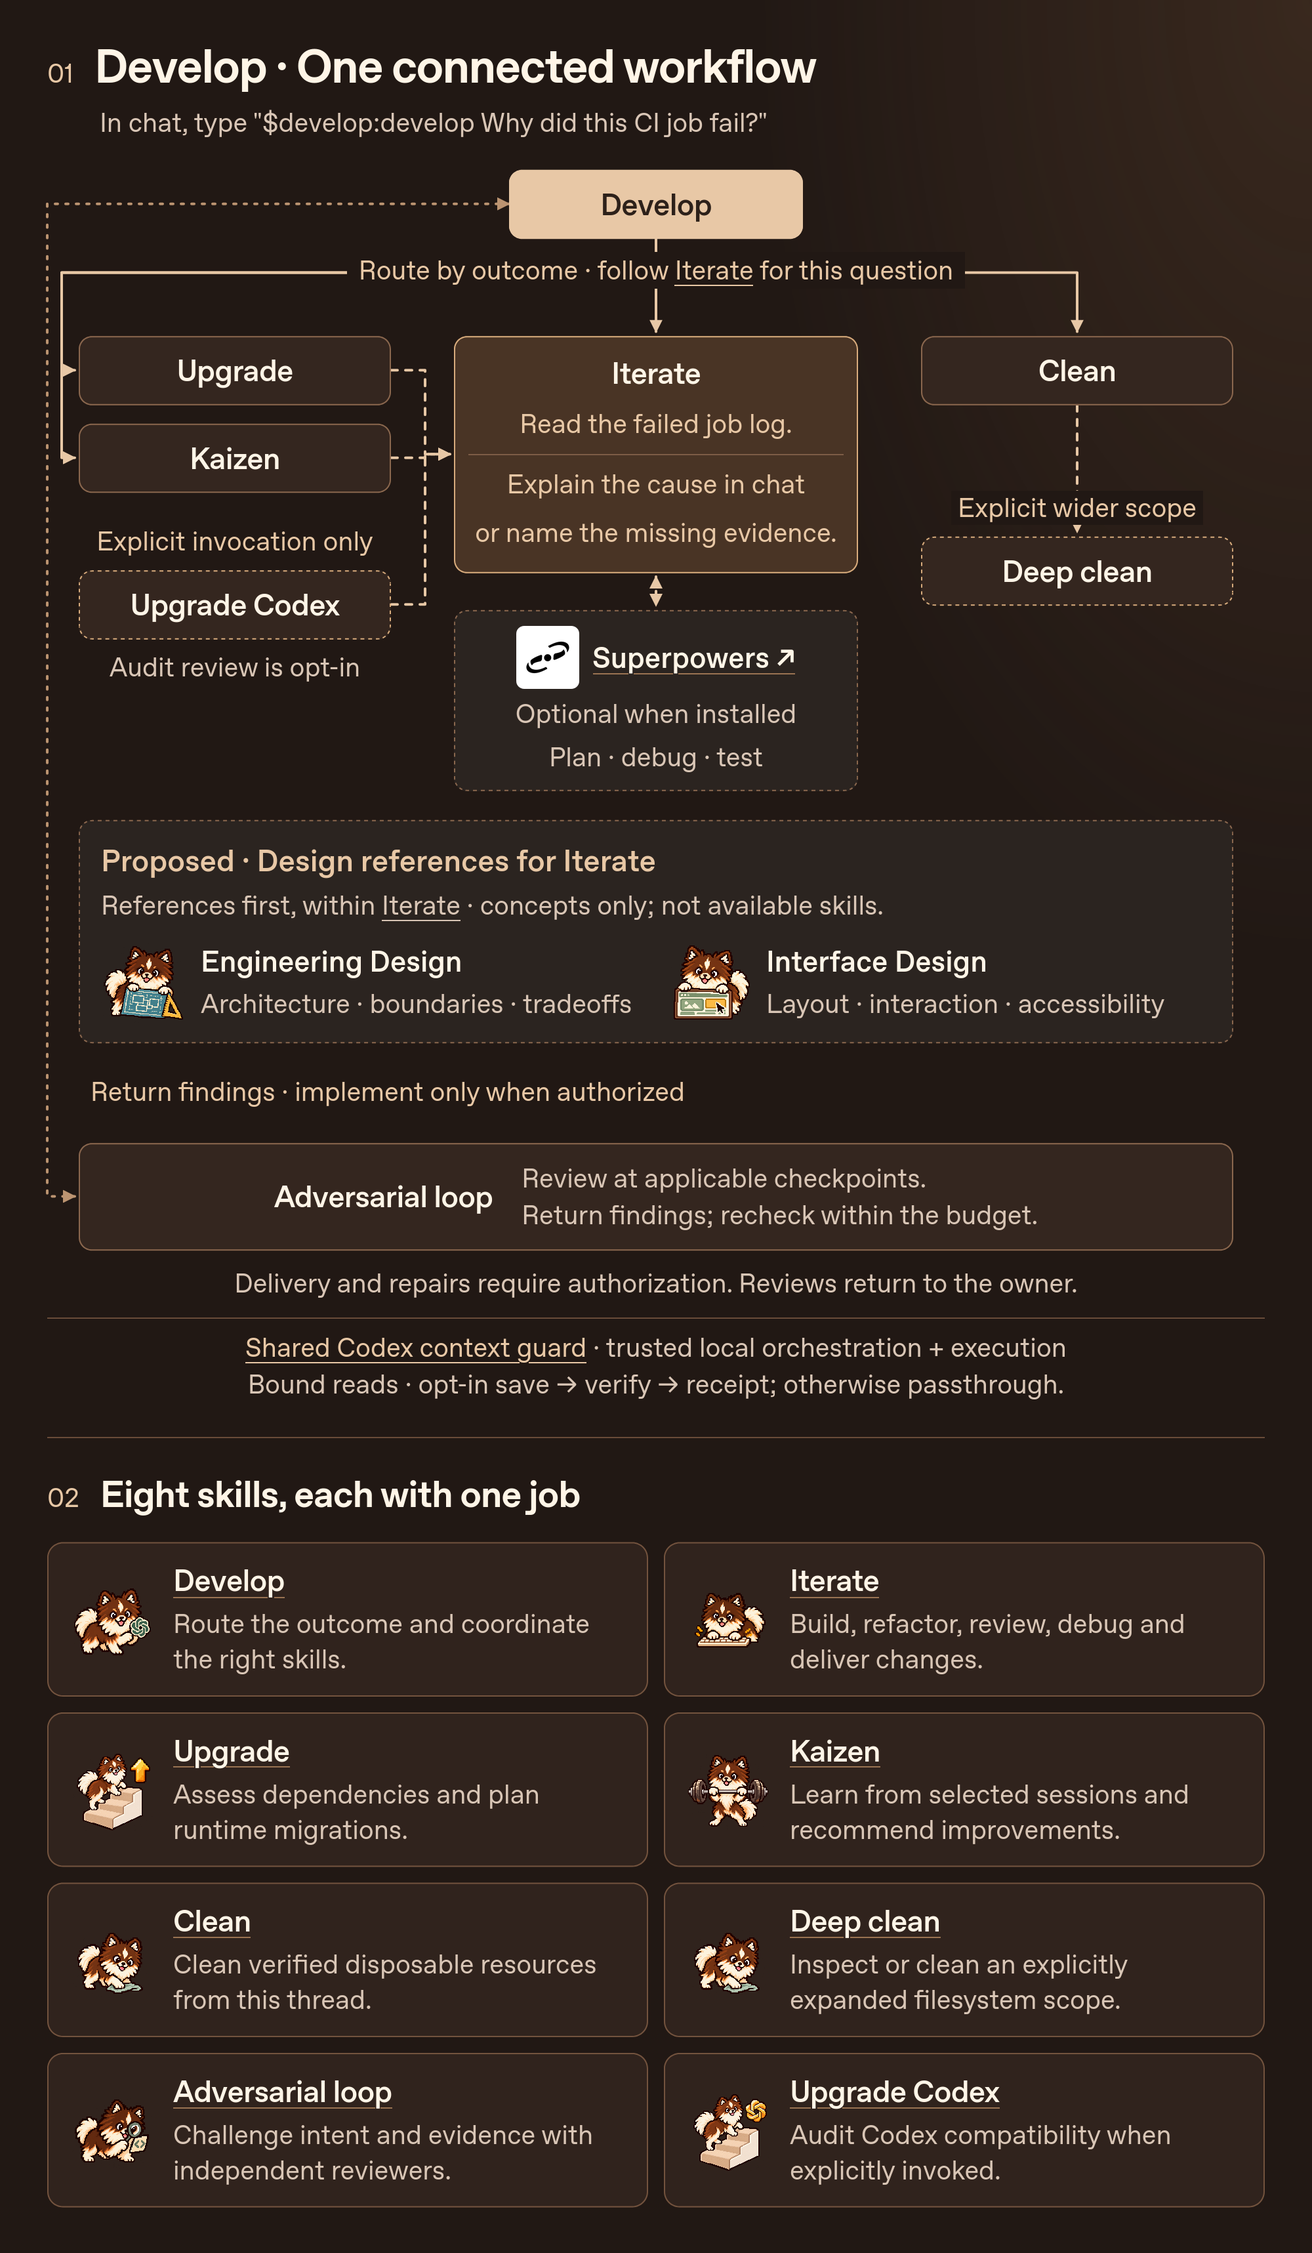
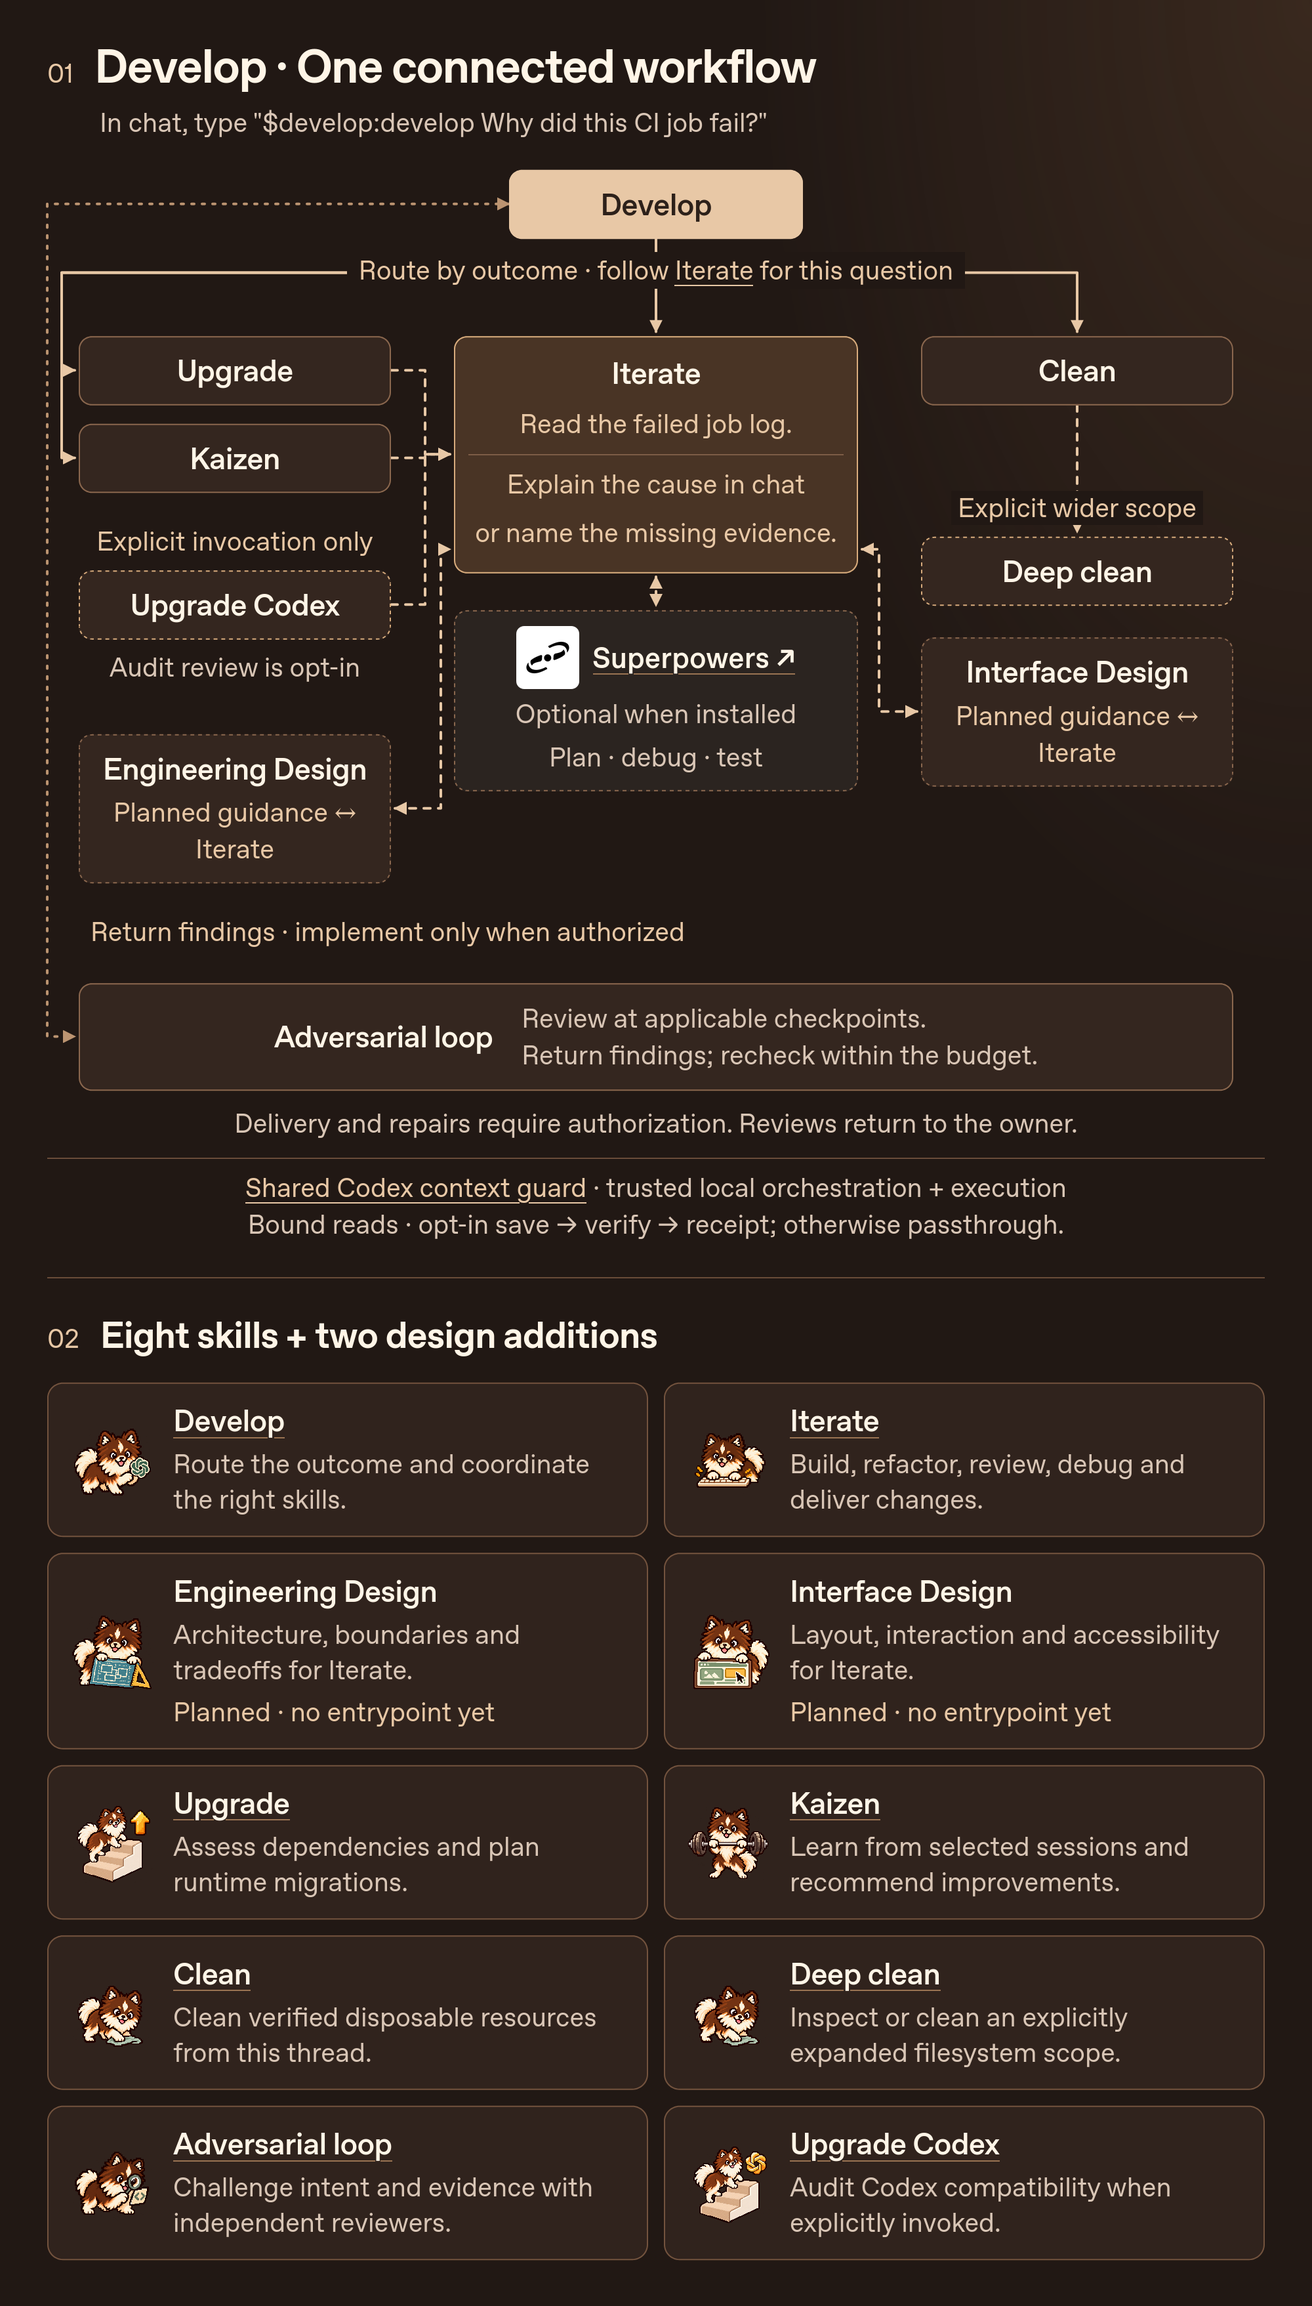
docs(develop): integrate design nodes and skill cards

diff --git a/plugins/develop/docs/develop-overview.html b/plugins/develop/docs/develop-overview.html
@@ -3,7 +3,7 @@
 <head>
 <meta charset="utf-8">
 <meta name="viewport" content="width=device-width, initial-scale=1">
-<meta name="description" content="One Develop workflow, eight existing skills, and two proposed design references.">
+<meta name="description" content="One Develop workflow and skill directory: eight existing skills and two planned design additions.">
 <title>Develop · One connected workflow</title>
 <style>
 :root {
@@ -73,23 +73,19 @@ h2 { font-size: 28px; letter-spacing: -.6px; font-weight: 650; }
 .skill-card h3 { font-size: 23px; font-weight: 600; letter-spacing: -.4px; line-height: 1.25; margin-bottom: 5px; }
 .skill-card h3 a { text-decoration-color: #997352; text-decoration-thickness: 1px; }
 .skill-card p { font-size: 20px; line-height: 1.35; color: var(--muted); }
-.design-proposals { margin-top: 22px; padding: 14px 16px; border: 1px dashed var(--line); border-radius: 10px; background: #2b2420; }
-.design-proposals > h3 { font-size: 23px; font-weight: 600; color: var(--accent); }
-.design-proposals > p { color: var(--muted); font-size: 20px; margin: 4px 0 12px; }
-.design-grid { display: grid; grid-template-columns: repeat(2, minmax(0, 1fr)); gap: 16px; }
-.design-concept { display: grid; grid-template-columns: 64px minmax(0, 1fr); gap: 12px; align-items: center; }
-.design-concept img { width: 64px; height: 64px; object-fit: contain; image-rendering: pixelated; }
-.design-concept h4 { margin: 0 0 3px; font-size: 22px; font-weight: 600; }
-.design-concept p { color: var(--muted); font-size: 20px; }
+.design-node { margin-top: 24px; border-style: dashed; }
+.design-node p { margin-top: 5px; color: var(--accent); }
+.skill-card .status { color: var(--accent); margin-top: 5px; }
 .sr-only { position: absolute; width: 1px; height: 1px; padding: 0; margin: -1px; overflow: hidden; clip: rect(0, 0, 0, 0); white-space: nowrap; border: 0; }
 @media (max-width: 900px) {
   .sheet { padding-inline: 24px; }
   .workflow-map { padding-inline: 22px; }
   .branches { grid-template-columns: minmax(0, 1fr) minmax(0, 1fr) minmax(0, 1fr); gap: 34px; }
   .flow-node h3 { font-size: 22px; }
+  .external-title { flex-wrap: wrap; }
   .skill-card { padding: 14px; gap: 12px; }
 }
-@media (max-width: 620px) {
+@media (max-width: 760px) {
   body { font-size: 18px; }
   .sheet { padding: 24px 16px; }
   h1 { font-size: 30px; }
@@ -112,8 +108,7 @@ h2 { font-size: 28px; letter-spacing: -.6px; font-weight: 650; }
   .reviews h3 { white-space: normal; margin-bottom: 8px; }
   .reviews p { text-align: center; }
   #skills { margin-top: 26px; }
-  .skill-grid, .design-grid { grid-template-columns: 1fr; }
-  .design-proposals > p, .design-concept p { font-size: 18px; }
+  .skill-grid { grid-template-columns: 1fr; }
   .skill-card { grid-template-columns: 56px minmax(0, 1fr); padding: 14px 12px; }
   .skill-card img { width: 56px; height: 56px; }
   .skill-card h3 { font-size: 22px; }
@@ -128,7 +123,7 @@ h2 { font-size: 28px; letter-spacing: -.6px; font-weight: 650; }
   <div class="section-heading"><span class="section-number">01</span><h1 id="workflow-title">Develop · One connected workflow</h1></div>
   <p class="intro">In chat, type "$develop:develop Why did this CI job fail?"</p>
   <div class="workflow-map" role="group" aria-labelledby="workflow-title" aria-describedby="workflow-description">
-    <p id="workflow-description" class="sr-only">Develop sends the CI question to Iterate. Iterate examines the failed job log and tells the user what caused the failure or what evidence is missing. Users can also invoke a skill directly. Develop routes other outcomes to Upgrade, Kaizen, Clean or Adversarial loop. Upgrade Codex is available only by explicit invocation. Upgrade, Kaizen and Upgrade Codex may return findings; they hand changes to Iterate only when implementation is authorized. Iterate performs the requested work and can loop through validation, authorized delivery, monitoring and authorized repair. Clean expands to Deep clean only for explicitly widened scope. Adversarial loop reviews applicable checkpoints and returns findings to the owner within a bounded review budget. An audit-only Upgrade Codex review is opt-in. Iterate may use compatible installed Superpowers guidance for planning, debugging and testing, then resumes with its existing scope and gates. Engineering Design and Interface Design are proposed references for Iterate, not available skills or active routes.</p>
+    <p id="workflow-description" class="sr-only">Develop sends the CI question to Iterate. Iterate examines the failed job log and tells the user what caused the failure or what evidence is missing. Users can also invoke a skill directly. Develop routes other outcomes to Upgrade, Kaizen, Clean or Adversarial loop. Upgrade Codex is available only by explicit invocation. Upgrade, Kaizen and Upgrade Codex may return findings; they hand changes to Iterate only when implementation is authorized. Iterate performs the requested work and can loop through validation, authorized delivery, monitoring and authorized repair. Clean expands to Deep clean only for explicitly widened scope. Adversarial loop reviews applicable checkpoints and returns findings to the owner within a bounded review budget. An audit-only Upgrade Codex review is opt-in. Iterate may use compatible installed Superpowers guidance for planning, debugging and testing, then resumes with its existing scope and gates. Engineering Design and Interface Design appear in the workflow and skill directory as planned design additions. Dashed two-way links show proposed design guidance and handoff with Iterate; neither design addition has a runnable entrypoint yet.</p>
     <svg class="connectors" aria-hidden="true"><defs><marker id="arrow" viewBox="0 0 10 10" refX="9" refY="5" markerWidth="5" markerHeight="5" orient="auto-start-reverse"><path d="M0 0L10 5L0 10Z" fill="#e8c8a6"/></marker><marker id="feedback-arrow" viewBox="0 0 10 10" refX="9" refY="5" markerWidth="5" markerHeight="5" orient="auto-start-reverse"><path d="M0 0L10 5L0 10Z" fill="#bc9471"/></marker></defs><g id="edge-layer"></g></svg>
     <div class="flow-node router" id="node-develop" data-skill="develop"><h3>Develop</h3></div>
     <p class="route-caption">Route by outcome · follow <a href="#node-iterate">Iterate</a> for this question</p>
@@ -141,6 +136,7 @@ h2 { font-size: 28px; letter-spacing: -.6px; font-weight: 650; }
           <div class="flow-node explicit" id="node-upgrade-codex" data-skill="upgrade-codex"><h3>Upgrade Codex</h3></div>
           <p class="audit-note">Audit review is opt-in</p>
         </div>
+        <div class="flow-node design-node" id="node-engineering-design" data-planned="engineering-design"><h3>Engineering Design</h3><p>Planned guidance ↔ Iterate</p></div>
       </div>
       <div class="implementation-lane">
         <div class="flow-node delivery" id="node-iterate" data-skill="iterate">
@@ -158,16 +154,9 @@ h2 { font-size: 28px; letter-spacing: -.6px; font-weight: 650; }
           <p class="branch-label">Explicit wider scope</p>
           <div class="flow-node explicit" id="node-deep-clean" data-skill="deep-clean"><h3>Deep clean</h3></div>
         </div>
+        <div class="flow-node design-node" id="node-interface-design" data-planned="interface-design"><h3>Interface Design</h3><p>Planned guidance ↔ Iterate</p></div>
       </div>
     </div>
-    <aside class="design-proposals" aria-labelledby="design-proposals-title">
-      <h3 id="design-proposals-title">Proposed · Design references for Iterate</h3>
-      <p>References first, within <a href="#node-iterate">Iterate</a> · concepts only; not available skills.</p>
-      <div class="design-grid">
-        <article class="design-concept" data-proposal="engineering-design"><img src="assets/engineering-design-concept.png" width="64" height="64" alt="Roux holding an architecture blueprint and drafting triangle"><div><h4>Engineering Design</h4><p>Architecture · boundaries · tradeoffs</p></div></article>
-        <article class="design-concept" data-proposal="interface-design"><img src="assets/interface-design-concept.png" width="64" height="64" alt="Roux holding an interface layout with a pointer"><div><h4>Interface Design</h4><p>Layout · interaction · accessibility</p></div></article>
-      </div>
-    </aside>
     <p class="handoff" id="handoff-label">Return findings · implement only when authorized</p>
     <div class="flow-node reviews" id="node-adversarial-loop" data-skill="adversarial-loop"><h3>Adversarial loop</h3><p>Review at applicable checkpoints.<br>Return findings; recheck within the budget.</p></div>
     <p class="review-return">Delivery and repairs require authorization. Reviews return to the owner.</p>
@@ -175,10 +164,12 @@ h2 { font-size: 28px; letter-spacing: -.6px; font-weight: 650; }
   <p class="context-guard"><a href="context-guard.md">Shared Codex context guard</a> · trusted local orchestration + execution<br>Bound reads · opt-in save → verify → receipt; otherwise passthrough.</p>
 </section>
 <section id="skills" aria-labelledby="skills-title">
-  <div class="section-heading"><span class="section-number">02</span><h2 id="skills-title">Eight skills, each with one job</h2></div>
+  <div class="section-heading"><span class="section-number">02</span><h2 id="skills-title">Eight skills + two design additions</h2></div>
   <div class="skill-grid">
     <article class="skill-card" data-skill="develop"><img src="../skills/develop/assets/icon.png" width="64" height="64" alt="Develop Roux logo"><div><h3><a href="../skills/develop/SKILL.md">Develop</a></h3><p>Route the outcome and coordinate the right skills.</p></div></article>
     <article class="skill-card" data-skill="iterate"><img src="../skills/iterate/assets/icon.png" width="64" height="64" alt="Iterate Roux logo"><div><h3><a href="../skills/iterate/SKILL.md">Iterate</a></h3><p>Build, refactor, review, debug and deliver changes.</p></div></article>
+    <article class="skill-card" data-planned="engineering-design"><img src="assets/engineering-design-concept.png" width="64" height="64" alt="Engineering Design Roux with blueprint and drafting triangle"><div><h3>Engineering Design</h3><p>Architecture, boundaries and tradeoffs for Iterate.</p><p class="status">Planned · no entrypoint yet</p></div></article>
+    <article class="skill-card" data-planned="interface-design"><img src="assets/interface-design-concept.png" width="64" height="64" alt="Interface Design Roux with layout and pointer"><div><h3>Interface Design</h3><p>Layout, interaction and accessibility for Iterate.</p><p class="status">Planned · no entrypoint yet</p></div></article>
     <article class="skill-card" data-skill="upgrade"><img src="../skills/upgrade/assets/icon.png" width="64" height="64" alt="Upgrade Roux logo"><div><h3><a href="../skills/upgrade/SKILL.md">Upgrade</a></h3><p>Assess dependencies and plan runtime migrations.</p></div></article>
     <article class="skill-card" data-skill="kaizen"><img src="../skills/kaizen/assets/icon.png" width="64" height="64" alt="Kaizen Roux logo"><div><h3><a href="../skills/kaizen/SKILL.md">Kaizen</a></h3><p>Learn from selected sessions and recommend improvements.</p></div></article>
     <article class="skill-card" data-skill="clean"><img src="../skills/clean/assets/icon.png" width="64" height="64" alt="Clean Roux logo"><div><h3><a href="../skills/clean/SKILL.md">Clean</a></h3><p>Clean verified disposable resources from this thread.</p></div></article>
@@ -202,9 +193,10 @@ h2 { font-size: 28px; letter-spacing: -.6px; font-weight: 650; }
       const b = document.getElementById('node-' + id).getBoundingClientRect();
       return { left: b.left - bounds.left, right: b.right - bounds.left, top: b.top - bounds.top, bottom: b.bottom - bounds.top, x: b.left - bounds.left + b.width / 2, y: b.top - bounds.top + b.height / 2 };
     };
-    const edge = (d, kind = '', both = false) => {
+    const edge = (d, kind = '', both = false, design = '') => {
       const path = document.createElementNS(ns, 'path');
       path.setAttribute('d', d);
+      if (design) path.setAttribute('data-design-link', design);
       path.setAttribute('class', `edge ${kind}`);
       const marker = kind === 'feedback' ? 'feedback-arrow' : 'arrow';
       path.setAttribute('marker-end', `url(#${marker})`);
@@ -213,7 +205,7 @@ h2 { font-size: 28px; letter-spacing: -.6px; font-weight: 650; }
     };
     const D = box('develop'), I = box('iterate'), C = box('clean'), X = box('deep-clean'), R = box('adversarial-loop'), S = box('superpowers');
     edge(`M ${I.x} ${I.bottom + 3} V ${S.top - 3}`, 'conditional', true);
-    const mobile = matchMedia('(max-width: 620px)').matches;
+    const mobile = matchMedia('(max-width: 760px)').matches;
     if (mobile) {
       const routeX = 10, handoffX = bounds.width - 9;
       for (const id of ['upgrade', 'kaizen', 'iterate', 'clean']) {
@@ -223,6 +215,12 @@ h2 { font-size: 28px; letter-spacing: -.6px; font-weight: 650; }
       for (const id of ['upgrade', 'kaizen', 'upgrade-codex']) {
         const B = box(id);
         edge(`M ${B.right} ${B.y} H ${handoffX} V ${I.y} H ${I.right + 3}`, 'conditional');
+      }
+      for (const id of ['engineering-design', 'interface-design']) {
+        const B = box(id);
+        const designX = bounds.width - (id === 'engineering-design' ? 17 : 1);
+        const attachY = I.bottom - (id === 'engineering-design' ? 36 : 18);
+        edge(`M ${B.right + 3} ${B.y} H ${designX} V ${attachY} H ${I.right + 3}`, 'conditional', true, id);
       }
       edge(`M ${C.x} ${C.bottom} V ${X.top - 3}`, 'conditional');
       edge(`M ${D.left} ${D.y} H 1 V ${R.y} H ${R.left - 3}`, 'feedback', true);
@@ -239,6 +237,9 @@ h2 { font-size: 28px; letter-spacing: -.6px; font-weight: 650; }
         const B = box(id);
         edge(`M ${B.right} ${B.y} H ${busX} V ${I.y} H ${I.left - 3}`, 'conditional');
       }
+      const E = box('engineering-design'), U = box('interface-design');
+      edge(`M ${E.right + 3} ${E.y} H ${I.left - 10} V ${I.bottom - 18} H ${I.left - 3}`, 'conditional', true, 'engineering-design');
+      edge(`M ${U.left - 3} ${U.y} H ${I.right + 16} V ${I.bottom - 18} H ${I.right + 3}`, 'conditional', true, 'interface-design');
       edge(`M ${C.x} ${C.bottom} V ${X.top - 3}`, 'conditional');
       edge(`M ${D.left} ${D.y} H 0 V ${R.y} H ${R.left - 3}`, 'feedback', true);
     }

diff --git a/plugins/develop/README.md b/plugins/develop/README.md
@@ -15,8 +15,8 @@ Preservation is opt-in, POSIX-only and best-effort, with private storage, fixed 
 
 The separate [staged-file size checker](skills/iterate/references/staged-file-size.md) runs only when explicitly requested or required by the repository. It checks Git-index files; it does not install a Git hook or activate the context guard.
 
-[![A user asks in chat why a CI job failed. Develop routes the question to Iterate, which reads the failed job log and replies with the cause or the missing evidence. The map also shows the other skills, the shared context guard, and two proposed Roux-themed design references for Iterate.](docs/develop-overview.png)](docs/develop-overview.png)
+[![A user asks in chat why a CI job failed. Develop routes the question to Iterate, which reads the failed job log and replies with the cause or the missing evidence. The map also shows the other skills, the shared context guard, and Engineering Design and Interface Design linked to Iterate and included in the skill list.](docs/develop-overview.png)](docs/develop-overview.png)
 
-Engineering Design and Interface Design are visual concepts for proposed Iterate references, not available skills. The eight existing skills and workflow remain unchanged.
+The diagram and skill list include eight available skills plus Engineering Design and Interface Design as planned additions. Their dashed links show design guidance and handoff with Iterate; runnable entrypoints are not implemented yet.
 
 [Full-size image](docs/develop-overview.png) · [Responsive HTML source](docs/develop-overview.html) · [Superpowers Codex source](https://github.com/openai/plugins/tree/main/plugins/superpowers) · [Maintainer instructions](AGENTS.md) · [Apache-2.0](LICENSE)
